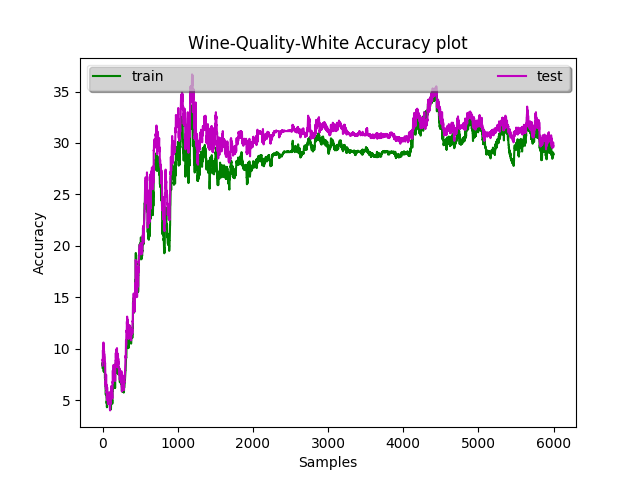
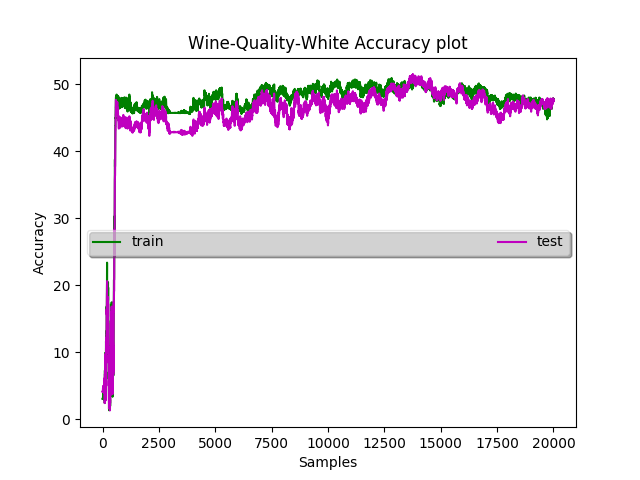
weight tranfer tested

diff --git a/transfer-learning/mcmc-transfer-learning/mcmc_transfer.py b/transfer-learning/mcmc-transfer-learning/mcmc_transfer.py
@@ -29,9 +29,8 @@ def convert_time(secs):
 
     return [mins, secs]
 
-# --------------------------------------------------------------------------
+# --------------------------------------------- Basic Neural Network Class ---------------------------------------------
 
-# An example of a class
 class Network:
     def __init__(self, Topo, Train, Test, learn_rate = 0.5, alpha = 0.1):
         self.Top = Topo  # NN topology [input, hidden, output]
@@ -145,7 +144,7 @@ class Network:
 
         return (sse / testSize, float(clasPerf) / testSize * 100)
 
-# --------------------------------------------------------------------------
+# ------------------------------------------------------- MCMC Class --------------------------------------------------
 class MCMC:
     def __init__(self, samples, traindata, testdata, topology):
         self.samples = samples  # NN topology [input, hidden, output]
@@ -254,7 +253,7 @@ class MCMC:
 
         w_proposal = w_pretrain
 
-        step_w = 0.02;  # defines how much variation you need in changes to w
+        step_w = 0.08  # defines how much variation you need in changes to w
 
         # --------------------- Declare FNN and initialize
 
@@ -279,10 +278,10 @@ class MCMC:
             with open('./results/wprop.csv', 'w') as wprofile:
                 np.savetxt(wprofile, [w_proposal], delimiter=',', fmt='%.5f')
 
-            np.savetxt(trainaccfile, [trainacc])
-            np.savetxt(testaccfile, [testacc])
-            np.savetxt(trainrmsefile, [rmsetrain])
-            np.savetxt(testrmsefile, [rmsetest])
+        np.savetxt(trainaccfile, [trainacc])
+        np.savetxt(testaccfile, [testacc])
+        np.savetxt(trainrmsefile, [rmsetrain])
+        np.savetxt(testrmsefile, [rmsetest])
 
 
         trainacc_prev = trainacc
@@ -316,7 +315,7 @@ class MCMC:
                 # Update position
                 naccept += 1
                 likelihood = likelihood_proposal
-                prior_likelihood = prior_prop
+                prior = prior_prop
                 w = w_proposal
 
                 # print i, trainacc, rmsetrain
@@ -335,10 +334,10 @@ class MCMC:
                     with open('./results/wprop.csv', 'a') as wprofile:
                         np.savetxt(wprofile, [w_proposal], delimiter=',', fmt='%.5f')
 
-                    np.savetxt(trainaccfile, [trainacc])
-                    np.savetxt(testaccfile, [testacc])
-                    np.savetxt(trainrmsefile, [rmsetrain])
-                    np.savetxt(testrmsefile, [rmsetest])
+                np.savetxt(trainaccfile, [trainacc])
+                np.savetxt(testaccfile, [testacc])
+                np.savetxt(trainrmsefile, [rmsetrain])
+                np.savetxt(testrmsefile, [rmsetest])
 
                 #save values into previous variables
                 wpro_prev = w_proposal
@@ -352,10 +351,10 @@ class MCMC:
                     np.reshape(wpro_prev, (1, wpro_prev.shape[0]))
                     with open('./results/wprop.csv', 'a') as wprofile:
                         np.savetxt(wprofile, [wpro_prev], delimiter=',', fmt='%.5f')
-                    np.savetxt(trainaccfile, [trainacc_prev])
-                    np.savetxt(testaccfile, [testacc_prev])
-                    np.savetxt(trainrmsefile, [rmsetrain_prev])
-                    np.savetxt(testrmsefile, [rmsetest_prev])
+                np.savetxt(trainaccfile, [trainacc_prev])
+                np.savetxt(testaccfile, [testacc_prev])
+                np.savetxt(trainrmsefile, [rmsetrain_prev])
+                np.savetxt(testrmsefile, [rmsetest_prev])
 
         print naccept / float(samples) * 100.0, '% was accepted'
         accept_ratio = naccept / (samples * 1.0) * 100
@@ -375,7 +374,7 @@ class MCMC:
         self.rmse_test = np.genfromtxt('./results/testrmse.csv')
 
     def display_acc(self):
-        burnin = 0.1 * numSamples  # use post burn in samples
+        burnin = 0.1 * self.samples  # use post burn in samples
         self.get_acc()
         rmse_tr = np.mean(self.rmse_train[int(burnin):])
         rmsetr_std = np.std(self.rmse_train[int(burnin):])
@@ -418,7 +417,7 @@ class MCMC:
         plt.clf()
 
 
-# --------------------------------------------------------------------------
+# ------------------------------------------------------- Main --------------------------------------------------------
 
 if __name__ == '__main__':
 
@@ -431,37 +430,128 @@ if __name__ == '__main__':
     etol = 0.6
     alpha = 0.1
 
+    MinCriteria = 0.005  # stop when RMSE reaches MinCriteria ( problem dependent)
+    c = 1.3
+
+
+    #--------------------------------------------- Train for the source task -------------------------------------------
     traindata = np.genfromtxt('../../datasets/WineQualityDataset/preprocess/winequality-white-train.csv', delimiter=',')
     testdata = np.genfromtxt('../../datasets/WineQualityDataset/preprocess/winequality-white-test.csv', delimiter=',')
 
-    MinCriteria = 0.005  # stop when RMSE reaches MinCriteria ( problem dependent)
-    c = 1.0
+    random.seed(time.time())
+
+    numSamples = 20000# need to decide yourself
+
+    mcmc_white = MCMC(numSamples, traindata, testdata, topology)  # declare class
+
+    # # generate random weights
+    # w_random = np.random.randn(mcmc.wsize)
+    #
+    # # start sampling
+    # mcmc.sampler(w_random, transfer=True)
+    #
+    # # display train and test accuracies
+    # mcmc.display_acc()
+    #
+    # # Plot the accuracies and rmse
+    # mcmc.plot_acc('Wine-Quality-White')
+
+
+
+
+
+    #------------------------------- Transfer weights from trained network to Target Task ---------------------------------
+    w_transfer = mcmc_white.transfer(c)
+
+    # Train for the target task with transfer
+    traindata = np.genfromtxt('../../datasets/WineQualityDataset/preprocess/winequality-red-train.csv', delimiter=',')
+    testdata = np.genfromtxt('../../datasets/WineQualityDataset/preprocess/winequality-red-test.csv', delimiter=',')
+
+    random.seed(time.time())
+    numSamples = 10000  # need to decide yourself
+
+    # Create mcmc object for the target task
+    mcmc_red_trf = MCMC(numSamples, traindata, testdata, topology)
+
+    # start sampling
+    mcmc_red_trf.sampler(w_transfer, transfer=False)
+
+    # display train and test accuracies
+    mcmc_red_trf.display_acc()
+
+    # Plot the accuracies and rmse
+    # mcmc.plot_acc('Wine-Quality-red')
+
+    #------------------------------------------- Target Task Without Transfer-------------------------------------------
 
     random.seed(time.time())
 
-    numSamples = 6000# need to decide yourself
-
-    mcmc = MCMC(numSamples, traindata, testdata, topology)  # declare class
+    # Create mcmc object for the target task
+    mcmc_red = MCMC(numSamples, traindata, testdata, topology)
 
     # generate random weights
-    w_random = np.random.randn(mcmc.wsize)
+    w_random = np.random.randn(mcmc_red.wsize)
 
     # start sampling
-    mcmc.sampler(w_random, transfer=True)
+    mcmc_red.sampler(w_random, transfer=False)
 
     # display train and test accuracies
-    mcmc.display_acc()
-
-    # Plot the accuracies and rmse
-    mcmc.plot_acc('Wine-Quality-White')
+    mcmc_red.display_acc()
 
 
-    # Transfer weights from trained network
-    w_transfer = mcmc.transfer(c)
-    print(w_transfer)
+    # ----------------------------------------- Plot results of Transfer -----------------------------------------------
 
+    ax = plt.subplot(111)
+    plt.plot(range(len(mcmc_red.train_acc)), mcmc_red.train_acc, color='#FA7949', label="no-transfer")
+    plt.plot(range(len(mcmc_red_trf.train_acc)), mcmc_red_trf.train_acc, color='#1A73B4', label="transfer")
 
+    leg = plt.legend(loc='best', ncol=2, mode="expand", shadow=True, fancybox=True)
+    leg.get_frame().set_alpha(0.5)
 
+    plt.xlabel('Samples')
+    plt.ylabel('Accuracy')
+    plt.title('Wine Quality Red Train Accuracy plot')
+    plt.savefig('./results/accuracy-train-mcmc.png')
 
+    plt.clf()
 
+    ax = plt.subplot(111)
+    plt.plot(range(len(mcmc_red.test_acc)), mcmc_red.test_acc, color='#FA7949', label="no-transfer")
+    plt.plot(range(len(mcmc_red_trf.test_acc)), mcmc_red_trf.test_acc, color='#1A73B4', label="transfer")
+
+    leg = plt.legend(loc='best', ncol=2, mode="expand", shadow=True, fancybox=True)
+    leg.get_frame().set_alpha(0.5)
+
+    plt.xlabel('Samples')
+    plt.ylabel('Accuracy')
+    plt.title('Wine Quality Red Test Accuracy plot')
+    plt.savefig('./results/accuracy-test-mcmc.png')
+
+    plt.clf()
+
+    ax = plt.subplot(111)
+    plt.plot(range(len(mcmc_red.rmse_train)), mcmc_red.rmse_train, 'b', label="no-transfer")
+    plt.plot(range(len(mcmc_red_trf.rmse_train)), mcmc_red_trf.rmse_train, 'c', label="transfer")
+
+    leg = plt.legend(loc='best', ncol=2, mode="expand", shadow=True, fancybox=True)
+    leg.get_frame().set_alpha(0.5)
+
+    plt.xlabel('Samples')
+    plt.ylabel('RMSE')
+    plt.title('Wine Quality Red Train RMSE plot')
+    plt.savefig('./results/rmse-train-mcmc.png')
+    plt.clf()
+
+    ax = plt.subplot(111)
+    plt.plot(range(len(mcmc_red.rmse_test)), mcmc_red.rmse_test, 'b', label="no-transfer")
+    plt.plot(range(len(mcmc_red_trf.rmse_test)), mcmc_red_trf.rmse_test, 'c', label="transfer")
+
+    leg = plt.legend(loc='best', ncol=2, mode="expand", shadow=True, fancybox=True)
+    leg.get_frame().set_alpha(0.5)
+
+    plt.xlabel('Samples')
+    plt.ylabel('RMSE')
+    plt.title('Wine Quality Red Test RMSE plot')
+    plt.savefig('./results/rmse-test-mcmc.png')
+    plt.clf()
 
